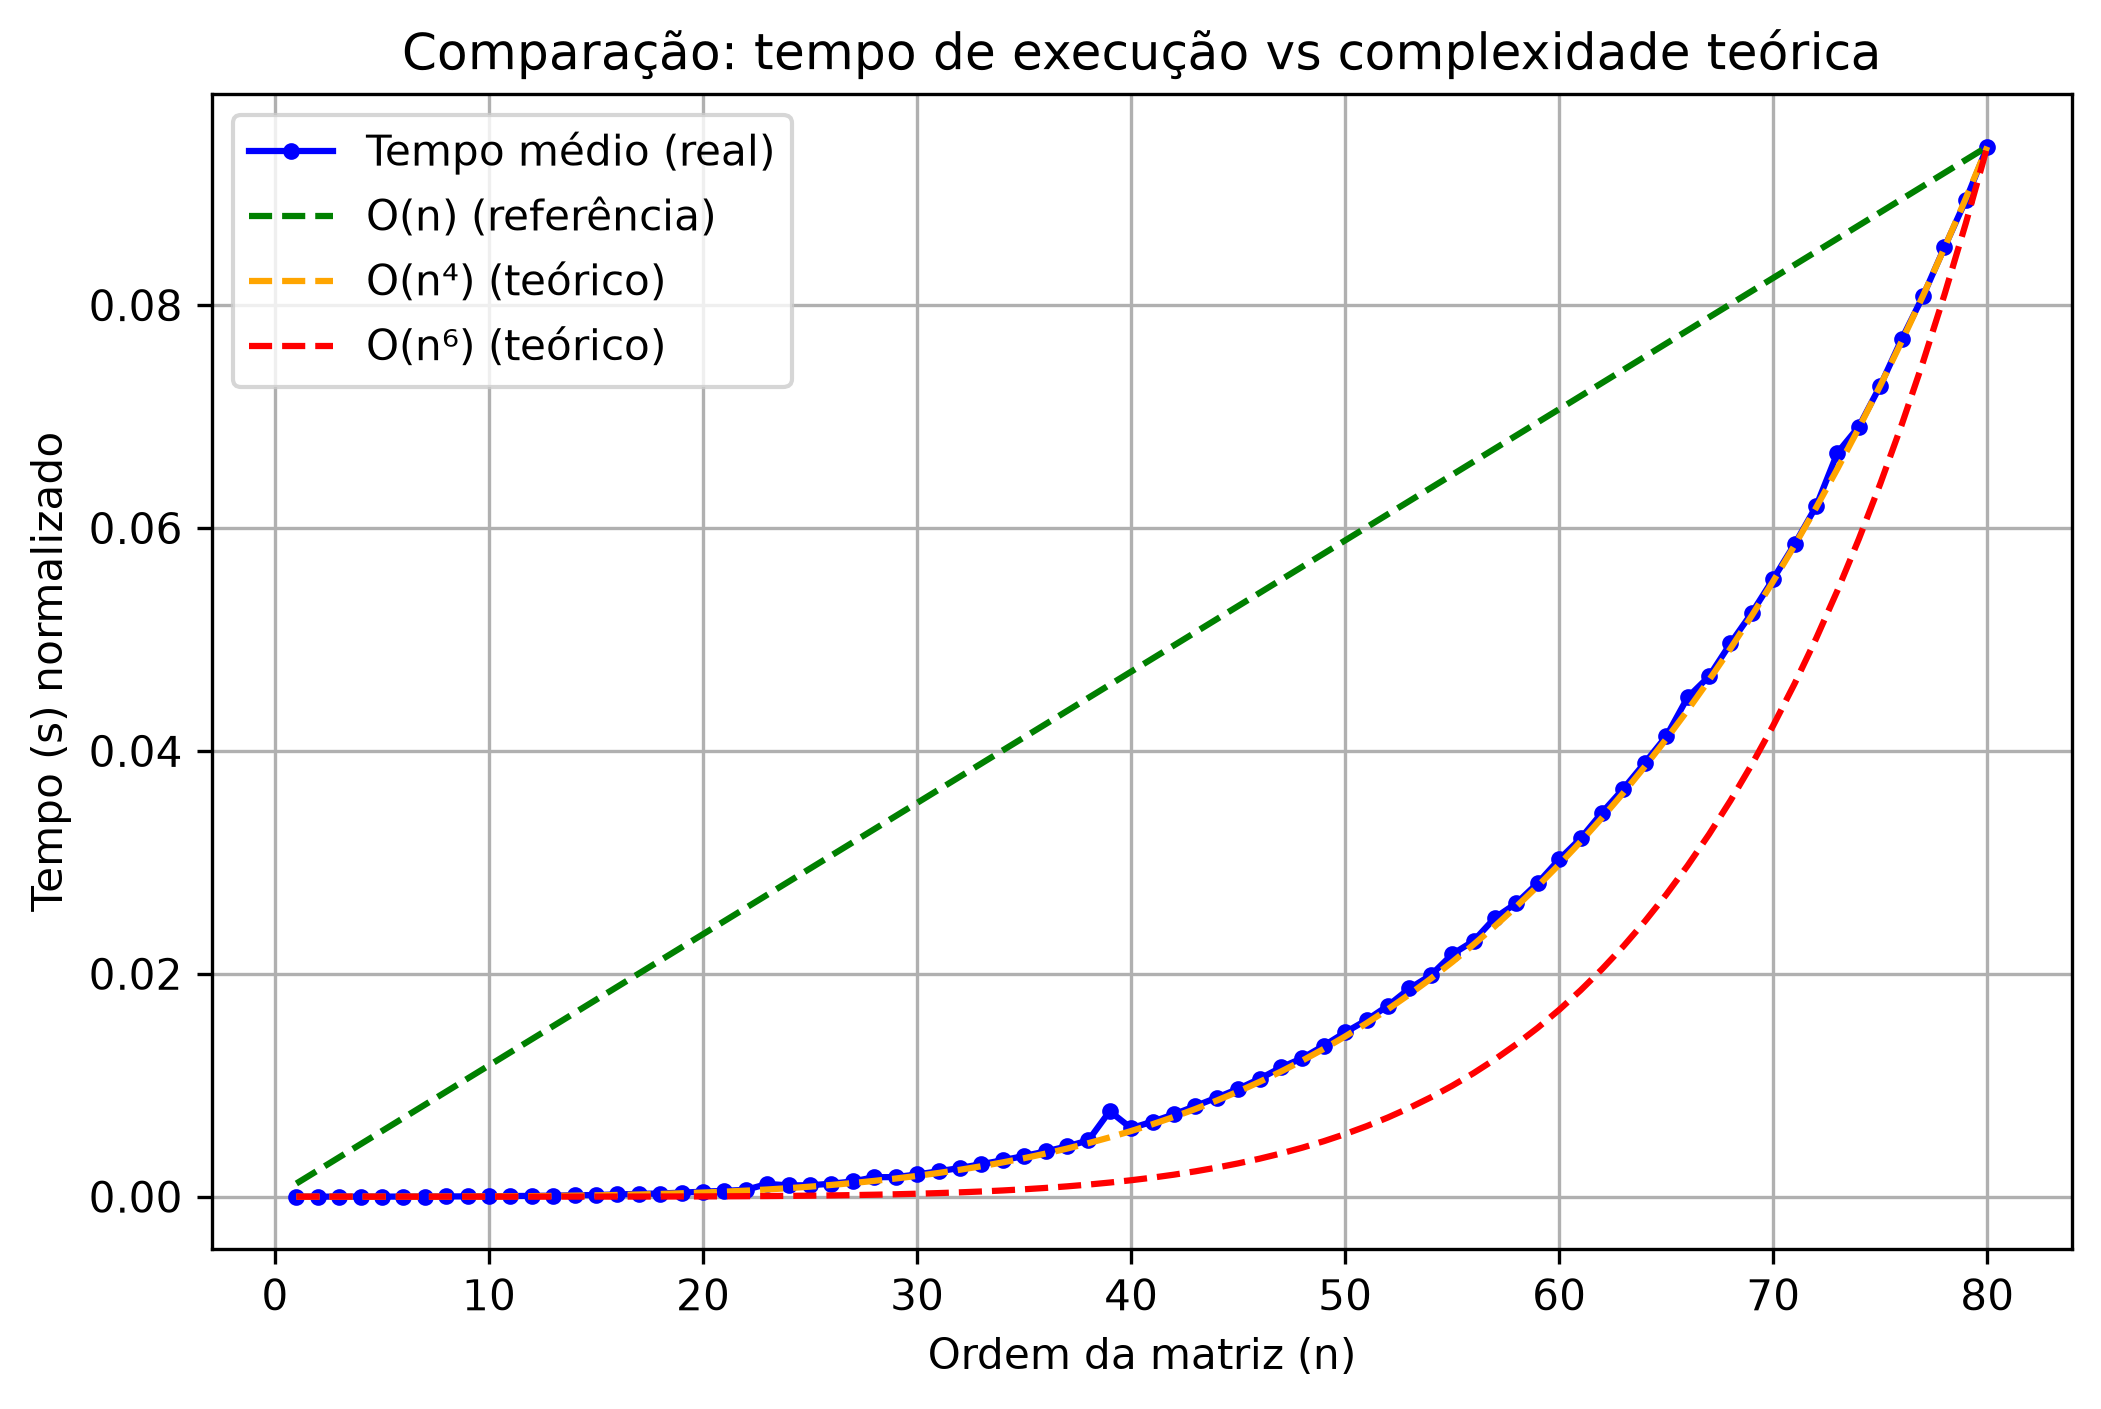
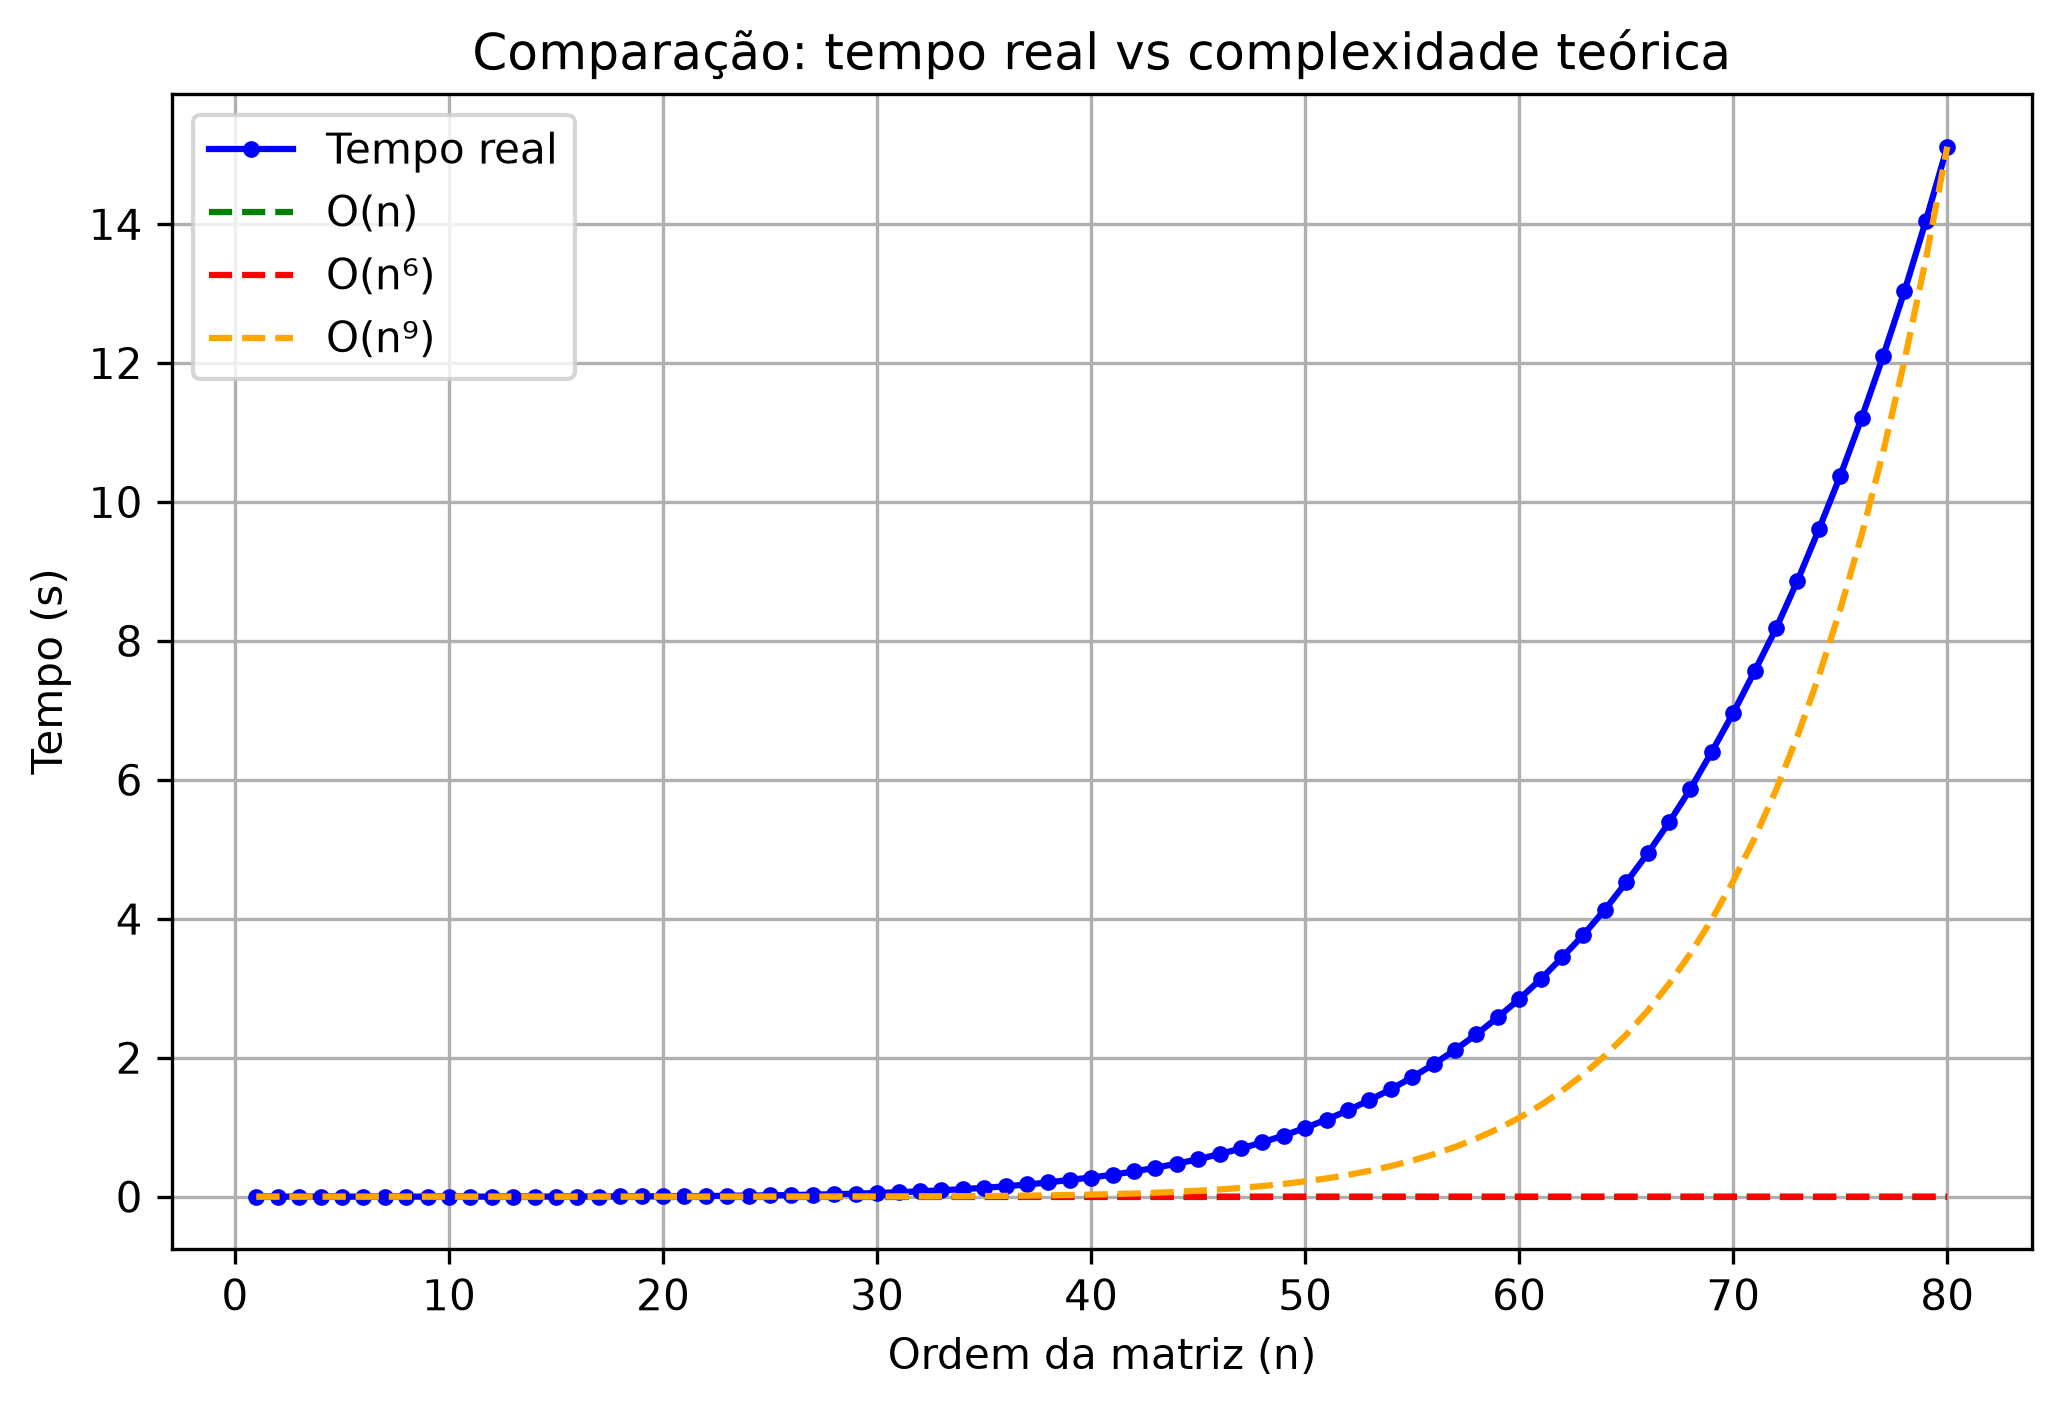
FINAL

diff --git a/buscaSubmatriz2.cpp b/buscaSubmatriz2.cpp
@@ -75,11 +75,7 @@ vector<vector<int>> construirPrefixos(const Matriz& matriz) {
     for (int i = 1; i <= matriz.linhas; i++) {
         for (int j = 1; j <= matriz.colunas; j++) {
 
-            pre[i][j] =
-                matriz.dados[i - 1][j - 1]
-                + pre[i - 1][j]
-                + pre[i][j - 1]
-                - pre[i - 1][j - 1];
+            pre[i][j] = matriz.dados[i - 1][j - 1] + pre[i - 1][j] + pre[i][j - 1] - pre[i - 1][j - 1];
         }
     }
 
@@ -98,99 +94,67 @@ int somaSubmatriz(
     int r2 = linhaInicio + altura - 1;
     int c2 = colunaInicio + largura - 1;
 
-    return pre[r2 + 1][c2 + 1]
-         - pre[r1][c2 + 1]
-         - pre[r2 + 1][c1]
-         + pre[r1][c1];
+    return pre[r2 + 1][c2 + 1] - pre[r1][c2 + 1] - pre[r2 + 1][c1] + pre[r1][c1];
 }
 
 int main(int argc, char* argv[]) {
 
     int execucao = atoi(argv[1]);
-
     namespace fs = std::filesystem;
-
     string pasta = "testes";
+    for (const auto& entry : fs::directory_iterator(pasta)) {
+        string nomeArquivo = entry.path().string();
 
-  for (const auto& entry : fs::directory_iterator(pasta)) {
+        Matriz matriz = atribuirMatriz(nomeArquivo);
+        float tempoInicio = clock();
 
-      string nomeArquivo = entry.path().string();
+        vector<vector<int>> prefixos = construirPrefixos(matriz);
 
-      Matriz matriz = atribuirMatriz(nomeArquivo);
+        int linhas = matriz.linhas;
+        int colunas = matriz.colunas;
 
-      float tempoInicio = clock();
+        int submatrizes = 0;
 
-      vector<vector<int>> prefixos = construirPrefixos(matriz);
+        int menorSomaGlobal = somaSubmatriz(prefixos, 0, 0, linhas, colunas);
 
-      int linhas = matriz.linhas;
-      int colunas = matriz.colunas;
+        int indiceI = 0;
+        int indiceJ = 0;
 
-      int submatrizes = 0;
+        int alturaMenor = linhas;
+        int larguraMenor = colunas;
 
-      int menorSomaGlobal =
-          somaSubmatriz(prefixos, 0, 0, linhas, colunas);
+        for (int altura = 1; altura <= linhas; altura++) {
+            for (int largura = 1; largura <= colunas; largura++) {
+                // Percorre todas as posições 
+                for (int linhaInicio = 0;linhaInicio <= linhas - altura;linhaInicio++) {
+                    for (int colunaInicio = 0;colunaInicio <= colunas - largura;colunaInicio++) {
+                        int soma = somaSubmatriz(
+                        prefixos,
+                        linhaInicio,
+                        colunaInicio,
+                        altura,
+                        largura
+                        );
 
-      int indiceI = 0;
-      int indiceJ = 0;
+                        if (soma < menorSomaGlobal) {
+                            menorSomaGlobal = soma;
+                            indiceI = linhaInicio;
+                            indiceJ = colunaInicio;
+                            alturaMenor = altura;
+                            larguraMenor = largura;
+                        }
 
-      int alturaMenor = linhas;
-      int larguraMenor = colunas;
+                        submatrizes++;
+                    }
+                }
+            }
+        }
 
-      for (int altura = 1; altura <= linhas; altura++) {
+        float tempoFim = clock();
+        float tempoTotal = (tempoFim - tempoInicio) / CLOCKS_PER_SEC;
 
-          for (int largura = 1; largura <= colunas; largura++) {
+        cout<< execucao << ","<< linhas << ","<< colunas << ","<< menorSomaGlobal << ","<< indiceI << ","<< indiceJ << ","<< alturaMenor << "x" << larguraMenor << ","<< submatrizes << ","<< tempoTotal<< endl;
+    }
 
-              // Percorre todas as posições possíveis
-              for (int linhaInicio = 0;
-                    linhaInicio <= linhas - altura;
-                    linhaInicio++) {
-
-                  for (int colunaInicio = 0;
-                        colunaInicio <= colunas - largura;
-                        colunaInicio++) {
-
-                      int soma = somaSubmatriz(
-                          prefixos,
-                          linhaInicio,
-                          colunaInicio,
-                          altura,
-                          largura
-                      );
-
-                      if (soma < menorSomaGlobal) {
-
-                          menorSomaGlobal = soma;
-
-                          indiceI = linhaInicio;
-                          indiceJ = colunaInicio;
-
-                          alturaMenor = altura;
-                          larguraMenor = largura;
-                      }
-
-                      submatrizes++;
-                  }
-              }
-          }
-      }
-
-      float tempoFim = clock();
-
-      float tempoTotal =
-          (tempoFim - tempoInicio) / CLOCKS_PER_SEC;
-
-  cout
-      << execucao << ","
-      << linhas << ","
-      << colunas << ","
-      << menorSomaGlobal << ","
-      << indiceI << ","
-      << indiceJ << ","
-      << alturaMenor << "x" << larguraMenor << ","
-      << submatrizes << ","
-      << tempoTotal
-      << endl;
-  }
-
-  return 0;
+    return 0;
 }

diff --git a/buscaSubmatriz.cpp b/buscaSubmatriz.cpp
@@ -36,9 +36,9 @@ void printarMatriz(const Matriz& matriz) {
 int somasubmatriz(const Matriz& matriz,int linhaInicio,int colunaInicio,int altura,int largura) {
   int soma = 0;
   for (int i = linhaInicio; i < linhaInicio + altura; i++) {
-      for (int j = colunaInicio; j < colunaInicio + largura; j++) {
-          soma += matriz.dados[i][j];
-      }
+    for (int j = colunaInicio; j < colunaInicio + largura; j++) {
+        soma += matriz.dados[i][j];
+    }
   }
   return soma;
 }
@@ -82,8 +82,7 @@ int main(int argc, char* argv[]) {
     int colunas = matriz.colunas;
     int submatrizes = 0;
     // Inicializa com a matriz inteira
-    int menorSomaGlobal =
-        somasubmatriz(matriz, 0, 0, linhas, colunas);
+    int menorSomaGlobal = somasubmatriz(matriz, 0, 0, linhas, colunas);
 
     int indiceI = 0;
     int indiceJ = 0;
@@ -91,7 +90,7 @@ int main(int argc, char* argv[]) {
     int alturaMenor = linhas;
     int larguraMenor = colunas;
 
-    // Percorre dimensões possíveis
+    // Percorre dimensões 
     for (int altura = 1; altura <= linhas; altura++) {
       for (int largura = 1; largura <= colunas; largura++) {
         // Percorre as posições
@@ -106,8 +105,8 @@ int main(int argc, char* argv[]) {
               larguraMenor = largura;
             }
             submatrizes++;
-            }
           }
+        }
       }
     }
 